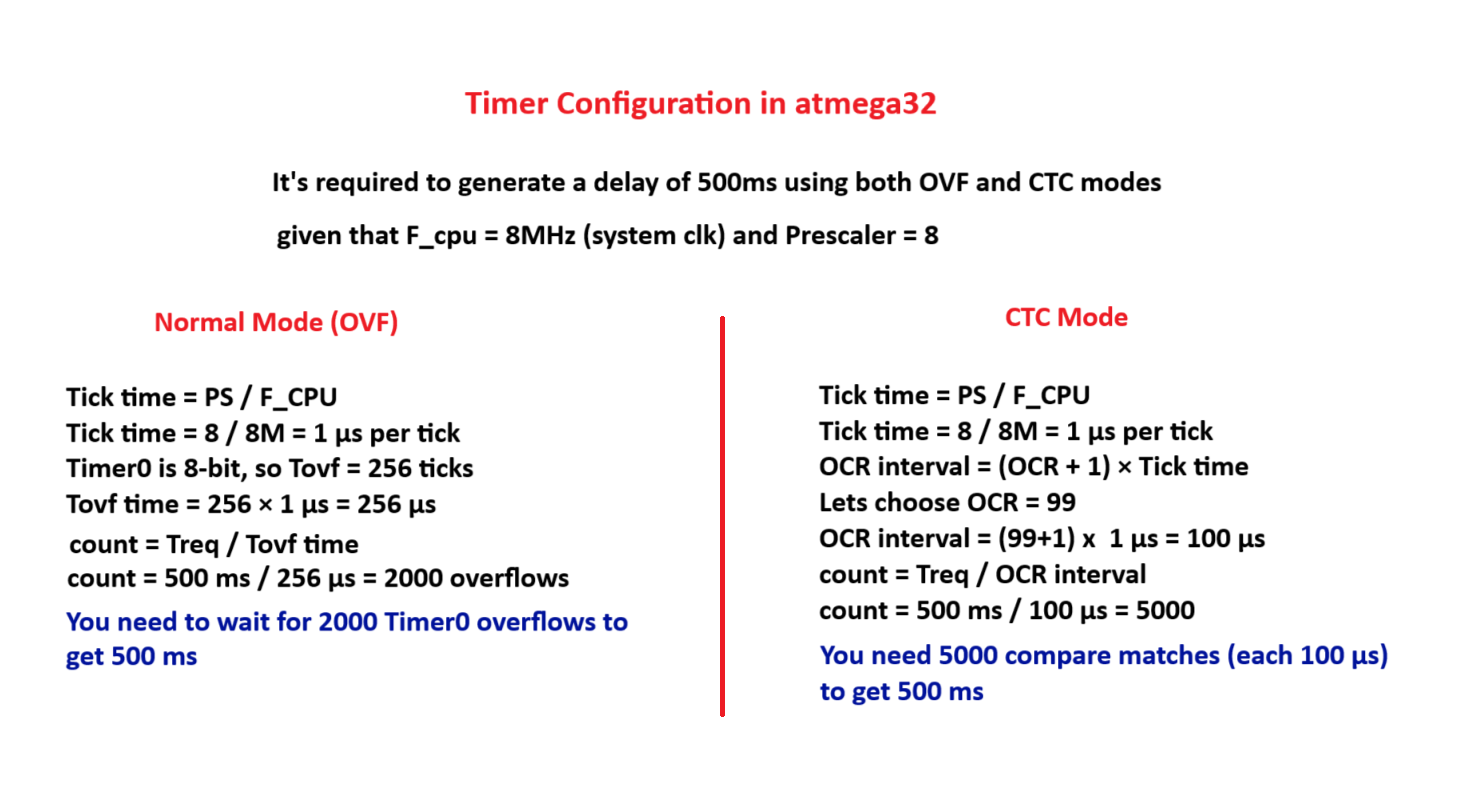
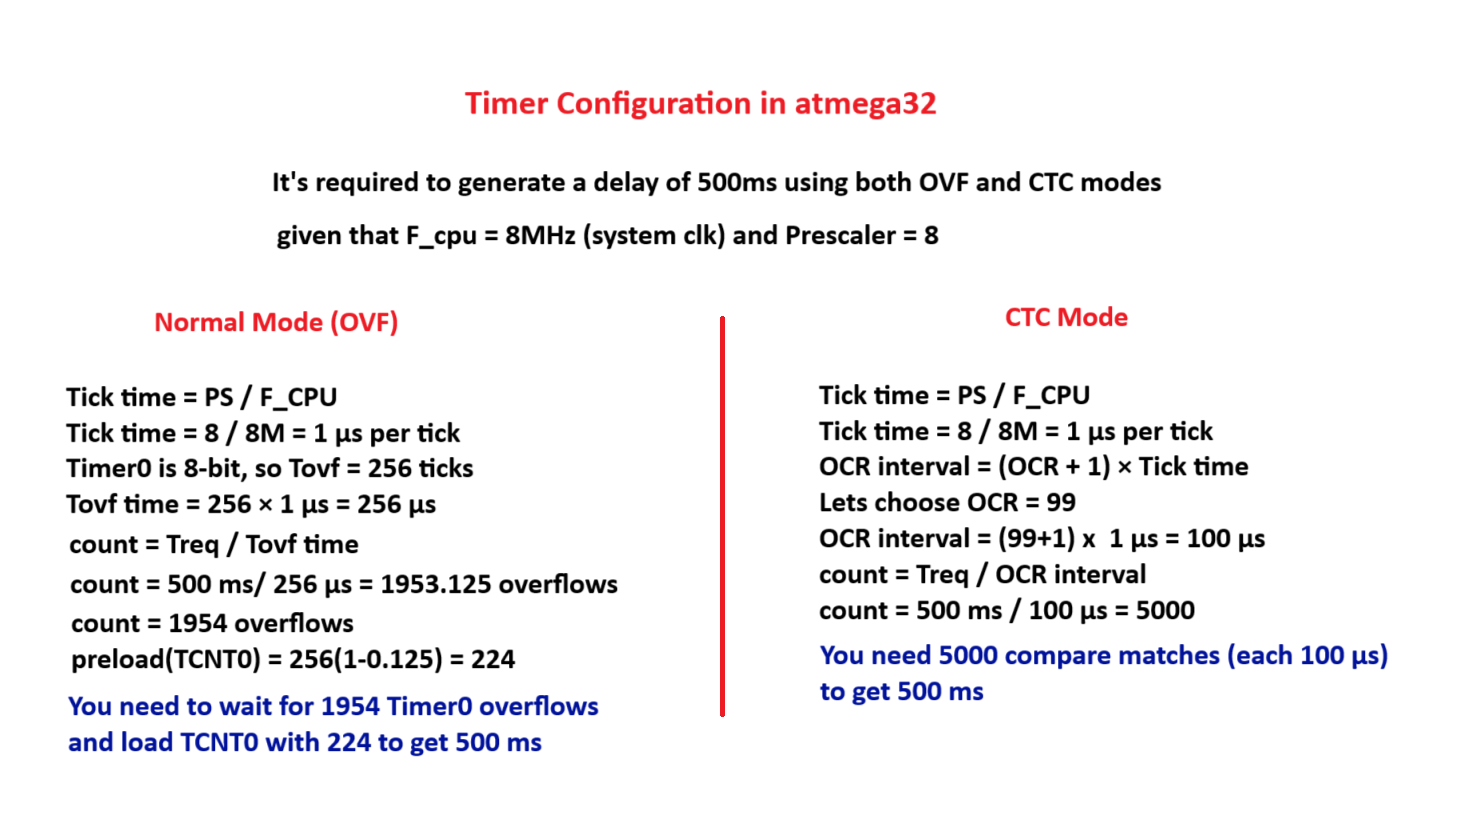
Update Timer Calulation for Overflow mode

diff --git a/Hardware_Interfacing/TIMERS.md b/Hardware_Interfacing/TIMERS.md
@@ -3,7 +3,7 @@
 <img src="../assets/_0.png">
 <br>
 
-## Lab 1: Overflow mode
+## Lab 1: Overflow mode with estimate value
 ```c
 /*
  * main.c
@@ -47,6 +47,52 @@ int main()
 }
 
 ```
+## Lab 1: Overflow mode with absolute value
+```c
+/*
+ * main.c
+ *
+ *  Created on: Jul 27, 2025
+ *      Author: Nada Mamdouh
+ */
+#define F_CPU 	8000000UL
+#include "../LIB/STD_TYPES.h"
+#include "../MCAL/DIO/DIO_int.h"
+#include "../MCAL/ADC/ADC_int.h"
+#include "../HAL/LCD/LCD_int.h"
+#include "../MCAL/GIE/GIE_int.h"
+#include "../MCAL/TIMERS/TIMERS_int.h"
+#include <util/delay.h>
+
+void Toggle(void)
+{
+	MDIO_vTogPinVal(DIO_PORTA, DIO_PIN0);
+}
+
+int main()
+{
+	MDIO_vSetPinDir(DIO_PORTA, DIO_PIN0, DIO_OUTPUT);
+	MTIMERS_vInit();
+	MGIE_vEnableGlobalInterrupt();
+	// toggle each 500ms
+	MTIMER_vSetPreloadValue(TIMERID_0, 224);
+	MTIMERS_vSetIntervalAsych_CB(Toggle,1954);
+
+
+	while(1)
+	{
+
+
+	}
+
+
+
+
+	return 0;
+}
+
+```
+
 ## Lab 2: CTC mode
 ```c
 /*
